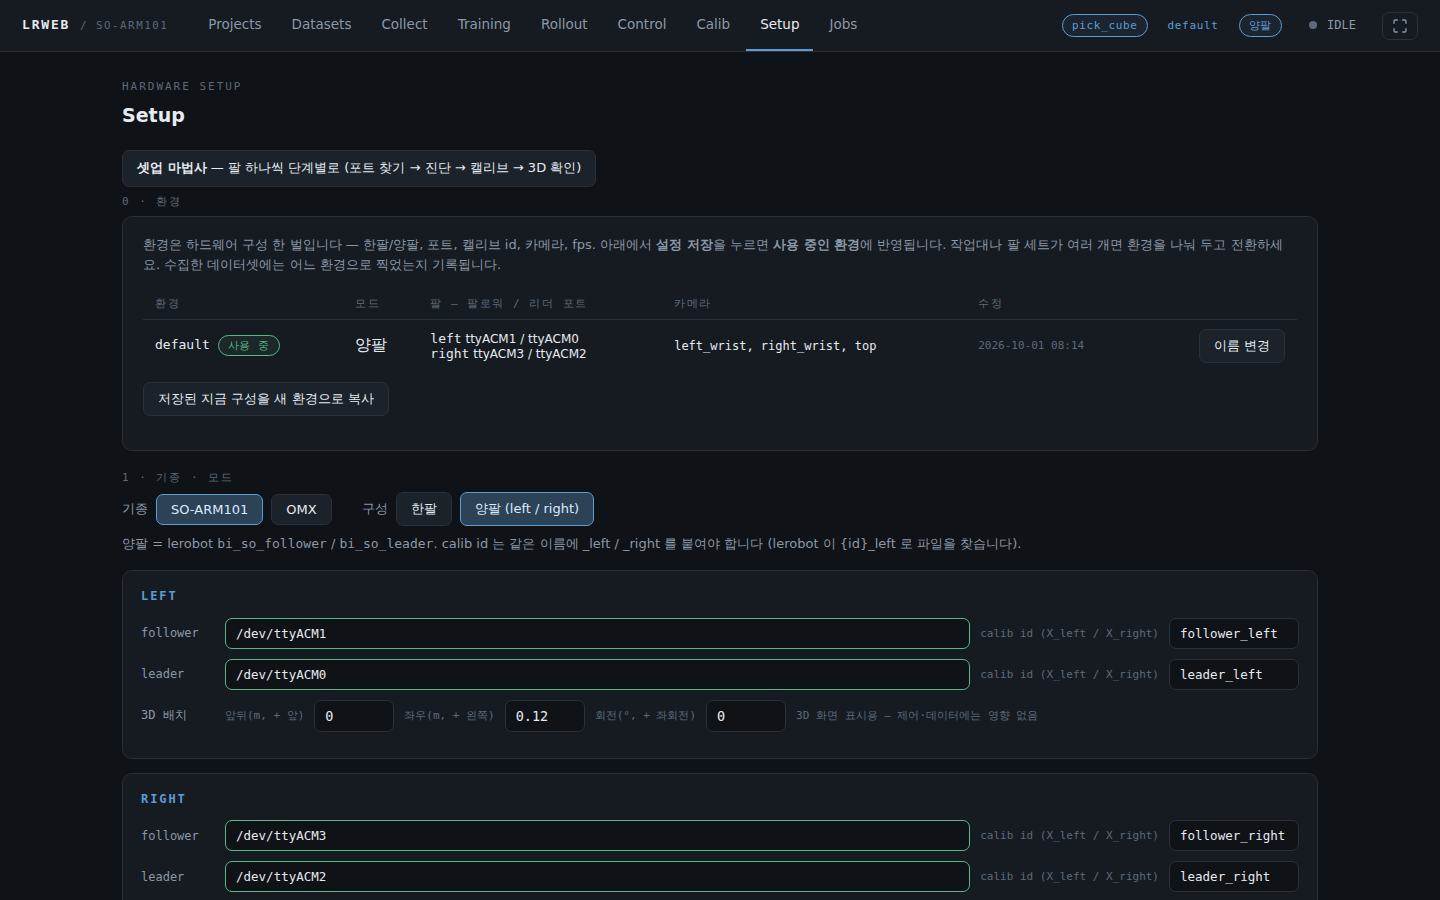
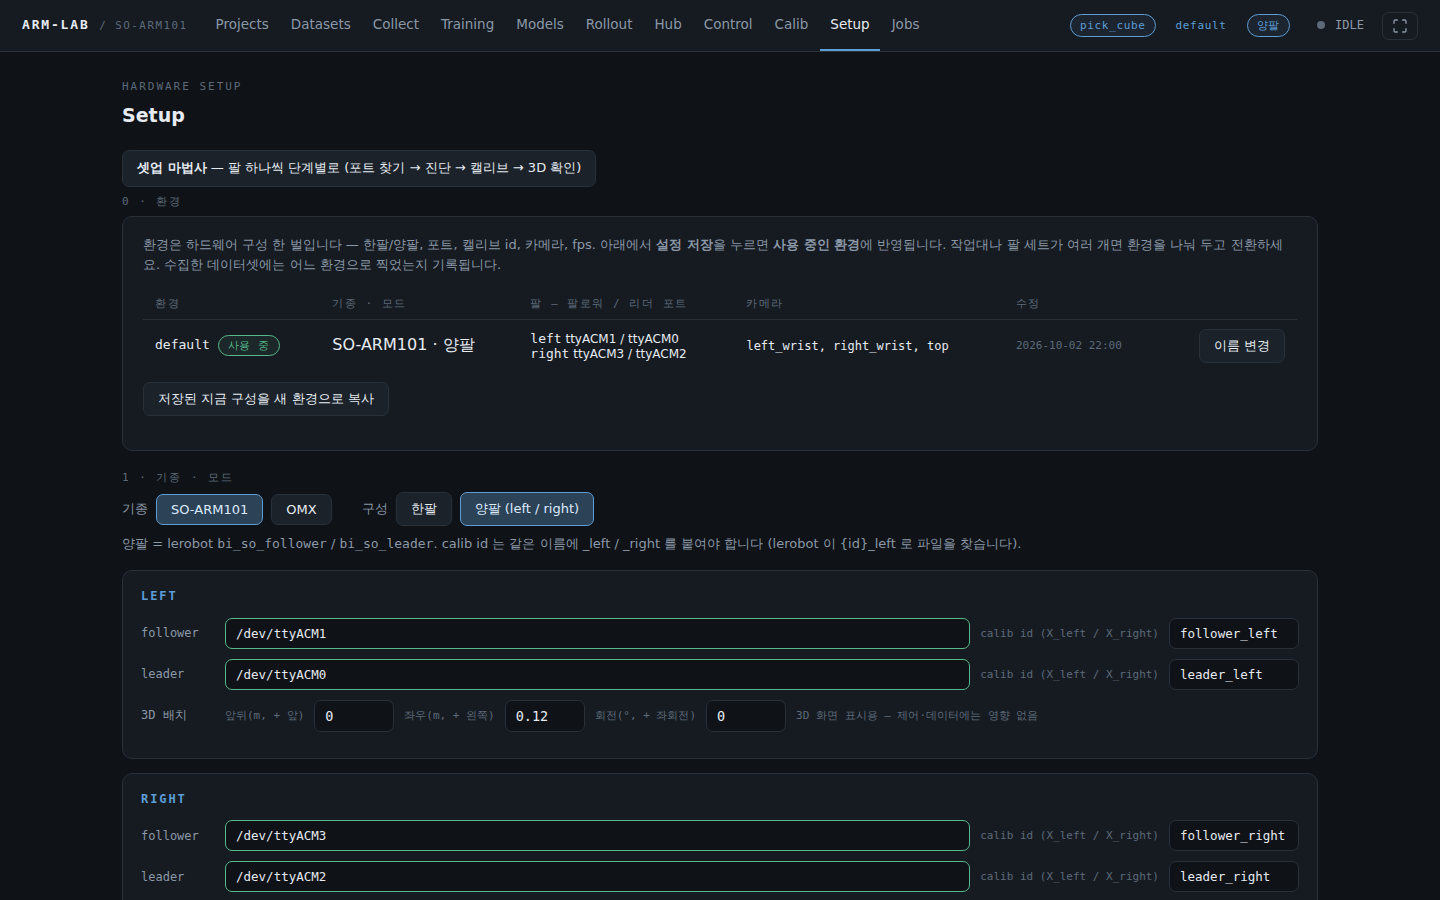
README: migration guide from lrweb, new troubleshooting rows, refreshed screenshots
- How to move data/settings from an old ~/project/lerobot (lrweb) install,
  conda env rename, rollback note for the lrweb-era tag.
- Troubleshooting for repair, rollout hints, camera MJPG, Hub, HF Jobs billing.
- All screenshots retaken with the ARM-LAB brand.
- App bar: with 11 tabs the running-job label overflowed; job id now hides
  below 1600px (shown on hover) and links to the job log.
- CLAUDE.md: keep README/docs/screenshots updated with every change.

Claude-Session: https://claude.ai/code/session_01B6FQN7Hy1CAMPD2WzLQir3

diff --git a/main.py b/main.py
@@ -2367,8 +2367,11 @@ a{color:var(--accent);text-decoration:none} a:hover{text-decoration:underline}
   border-bottom:2px solid transparent;font-weight:500;font-size:13.5px}
 .nav a:hover{color:var(--text);text-decoration:none}
 .nav a.on{color:var(--text);border-bottom-color:var(--accent)}
-.statuscluster{margin-left:auto;display:flex;align-items:center;gap:10px;
+.statuscluster{margin-left:auto;display:flex;align-items:center;gap:10px;min-width:0;white-space:nowrap;
   font-family:var(--mono);font-size:12px;color:var(--muted)}
+.jobtxt{color:inherit;overflow:hidden;text-overflow:ellipsis;min-width:0}
+/* 탭이 11개라 1600px 아래에서는 작업 id 를 숨기고(마우스를 올리면 보임) 탭 간격을 줄입니다 */
+@media(max-width:1600px){ .statuscluster .jobid{display:none} .nav a{padding:0 10px} .appbar{gap:18px} }
 .dot{width:8px;height:8px;border-radius:50%;background:var(--dim)}
 .dot.live{background:var(--ok);animation:pulse 1.6s ease-in-out infinite}
 @keyframes pulse{0%,100%{opacity:1}50%{opacity:.35}}
@@ -2492,7 +2495,7 @@ def nav_html(active=""):
         j = running[0]
         extra = f' +{len(running) - 1}' if len(running) > 1 else ''
         cluster = (f'<div class=statuscluster><span class="dot live"></span>'
-                   f'{esc(j["kind"].upper())} · {esc(j["id"])}{extra}</div>')
+                   f'<a href="/jobs/{esc(j["id"])}" class=jobtxt title="{esc(j["id"])}">{esc(j["kind"].upper())}<span class=jobid> · {esc(j["id"])}</span>{extra}</a></div>')
     else:
         cluster = '<div class=statuscluster><span class=dot></span>IDLE</div>'
     pname, _ = active_project()

diff --git a/README.md b/README.md
@@ -53,6 +53,23 @@ pip install --no-deps -e plugins/lerobot_robot_bi_omx -e plugins/lerobot_teleope
 pip install "openvino>=2025.4" "nncf>=2.19"
 ```
 
+### 예전 설치(lrweb, `~/project/lerobot`)에서 옮기기
+
+arm-lab 으로 이름이 바뀌면서 실행 파일(`lrweb.py` → `main.py`), 작업 폴더, 설정 파일 이름(`lrweb_*` → `armlab_*`), conda 환경 이름
+(`lerobot` → `arm-lab`)이 바뀌었습니다. 새로 설치한 뒤 예전 기기의 데이터·설정을 이렇게 옮깁니다.
+
+```bash
+OLD=~/project/lerobot; NEW=~/project/arm-lab
+cp -a $OLD/data $NEW/                     # 데이터셋 + 캘리브레이션 (data/hf/lerobot/...)
+cp -a $OLD/outputs $NEW/                  # 학습한 모델
+cd $OLD && for f in lrweb_*.json; do cp "$f" "$NEW/armlab_${f#lrweb_}"; done   # 설정·프로젝트·환경 목록
+[ -d lrweb_envs ] && cp -a lrweb_envs $NEW/armlab_envs
+```
+
+- 설정(`armlab_config.json`)을 옮기면 Setup·캘리브레이션을 다시 할 필요가 없습니다
+- 새로 설치하지 않고 예전 폴더에서 `git pull` 만 했다면, conda 환경 이름이 달라 `activate.sh` 가 실패합니다 —
+  `conda rename -n lerobot arm-lab` 로 이름을 바꾸거나 새로 설치하세요
+
 ## 실행
 
 ```bash
@@ -332,13 +349,19 @@ python tools_dxlcheck.py --port /dev/serial/by-id/usb-... --role follower   # OM
 | 양팔 OMX 추론이 안 됨 | 플러그인 설치 필요 — 위 "이미 설치된 기기 업데이트" 의 두 번째 `pip` 줄 |
 | 수집 화면이 멈춤 | 오른쪽 위 **강제 종료** 후 다시 시작 |
 | 업데이트 후 화면이 이상함 | arm-lab 재시작 + 브라우저 강력 새로고침 |
+| 데이터셋에 "마무리 안 됨" | 녹화가 끊긴 데이터셋 — Datasets 의 **복구** (백업 후 남은 에피소드로 색인 재생성) |
+| 롤아웃이 바로 끝남 | 실행 화면의 **원인 추정** 과 로그 확인 (모터 무응답·과부하·포트·카메라·캘리브레이션) |
+| "정책이 카메라 … 를 씁니다" / "관절 수 …" | 학습 때와 카메라 이름·한팔/양팔이 다름 — Setup 을 학습 때와 같게 |
+| 카메라 여러 대가 끊김·멈춤 | Setup → 카메라 **형식** 을 MJPG 로 (USB 대역폭) |
+| Hub 받기 실패 | `huggingface.co` 와 `*.xethub.hf.co`(대용량 파일) 접속 확인. 비공개 repo 는 소유자 토큰 필요 |
+| HF Jobs 학습을 멈췄는데 요금이 걱정됨 | Hub 탭의 **원격 취소** — 중지 버튼도 원격 작업을 취소하지만, HF Jobs 페이지에서 상태를 한 번 확인하세요 |
 
 ### 예전 버전으로 되돌리기
 
 SO-ARM101 만 쓰던 안정 버전에 태그가 있습니다.
 
 ```bash
-git checkout so-arm101-stable    # 되돌리기
+git checkout so-arm101-stable    # 되돌리기 (이 버전은 실행 파일이 lrweb.py, 설정이 lrweb_config.json 입니다)
 git checkout main                # 최신으로
 ```
 
@@ -363,3 +386,4 @@ ARMLAB_AUTH=on        python main.py    # armlab_token.txt 에 자동 생성
 - `urdf/` SO-101 URDF·STL: [TheRobotStudio SO-ARM100](https://github.com/TheRobotStudio/SO-ARM100) (Apache 2.0) — [urdf/LICENSE.md](urdf/LICENSE.md)
 - `urdf/omx_f.urdf`, `urdf/open_manipulator_description/`: [ROBOTIS open_manipulator](https://github.com/ROBOTIS-GIT/open_manipulator) (Apache 2.0) — [urdf/LICENSE-omx.md](urdf/LICENSE-omx.md)
 - `plugins/`: lerobot `bi_so_follower` / `bi_so_leader` 구조를 따른 코드 (Apache 2.0)
+- `tools_dsrepair.py`: [huggingface/leLab](https://github.com/huggingface/leLab) `dataset_repair.py` 를 옮겨 고친 코드 (Apache 2.0, 파일 머리에 표기)

diff --git a/CLAUDE.md b/CLAUDE.md
@@ -1,0 +1,7 @@
+# arm-lab 작업 규칙
+
+- 기능·화면·설치 방법·파일 이름이 바뀌면 **같은 커밋에서** `README.md`(사용법)를 갱신한다.
+  구조·설계 이유가 바뀌면 `docs/DEVELOPMENT.md` 도 갱신한다.
+- 화면이 바뀌었으면 `docs/img/` 의 해당 캡처를 다시 찍는다 (README 에 쓰인 이미지).
+- 실행 파일은 `main.py`, 보조 모듈은 `armlab_*.py`, 도구는 `tools_*.py`. 런타임 파일은 `armlab_*` 이름으로 레포 폴더(또는 `ARMLAB_HOME`)에 생긴다.
+- 화면 문자열을 바꾸면 영어 사전(`armlab_i18n_en.json`)에도 반영한다.
